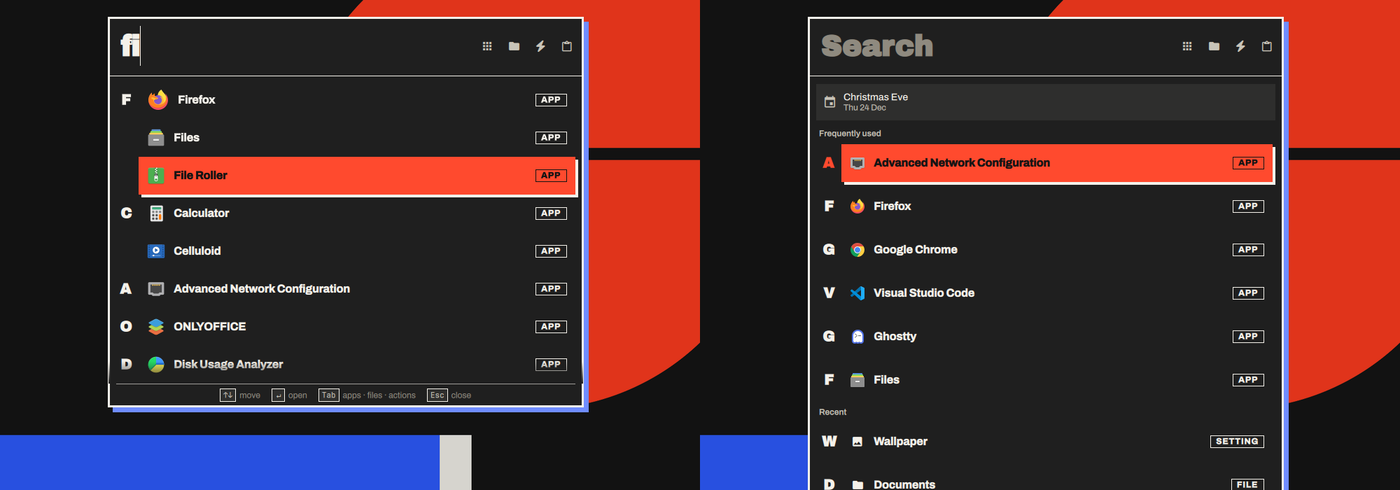
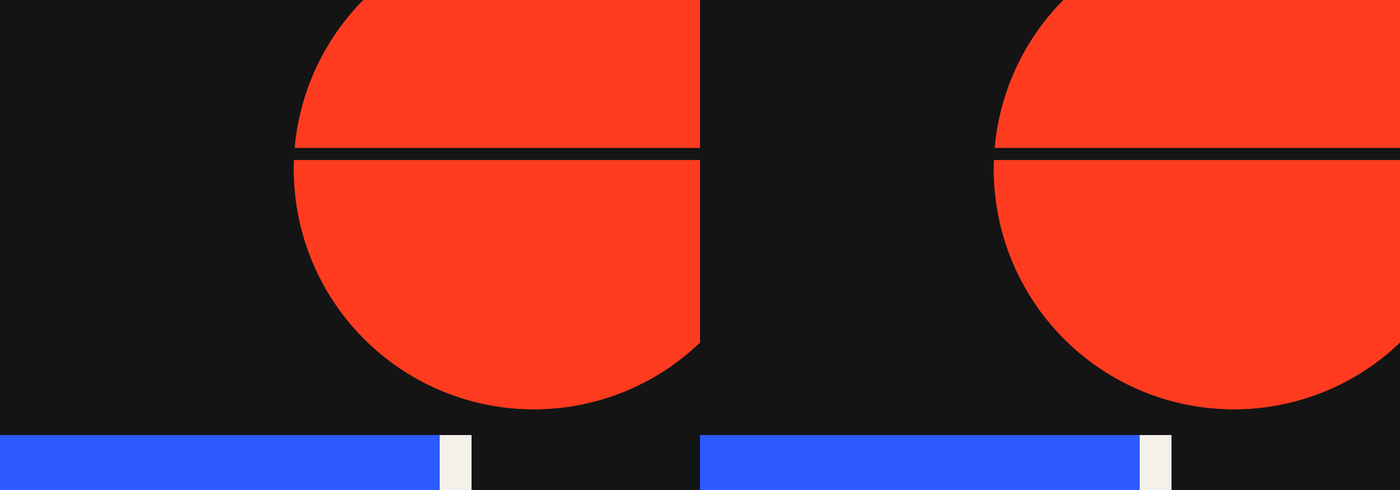
fix(launcher): sheet header at 48 px, layouts in the Settings preview
- Poster's sheet sets the query at ~48 px (fontHero x 1.15, scaled with
  the launcher size) in a taller header
- The theme's card in Settings > Search & Launcher draws its layout:
  plates and a split pill (grid), letter index, tags and a hard-shadow
  selection (sheet), > marker and index (prompt)
- Sheet quick-action tiles drop the tag, so their names fit
- After-shots refreshed, plus the Settings previews

diff --git a/config/quickshell/.config/quickshell/LauncherStylePreview.qml b/config/quickshell/.config/quickshell/LauncherStylePreview.qml
@@ -14,16 +14,18 @@ Item {
     readonly property real s: width / 200                  // drawing scale
     readonly property real barT: 7 * s
     readonly property bool sideBar: Theme.barEdge === "left" || Theme.barEdge === "right"
-    readonly property bool split: spec.split ?? (Theme.glassy && spec.placement === "center")
-    readonly property string corners: spec.corners && spec.corners !== "theme" ? spec.corners : Theme.radius === 0 ? "sharp" : "round"
+    // the theme's structure (launcher.layout, Launcher.qml): grid | sheet | prompt; a style has none
+    readonly property string layout: spec.layout ?? ""
+    readonly property bool split: spec.split ?? (layout === "grid" || Theme.glassy && spec.placement === "center")
+    readonly property string corners: spec.corners && spec.corners !== "theme" ? spec.corners : layout === "grid" ? "round" : Theme.radius === 0 ? "sharp" : "round"
     readonly property real r: corners === "sharp" ? 0 : 4 * s
-    readonly property bool grid: spec.view === "grid" || spec.view === "start"
-    readonly property bool inverse: (spec.select ?? "wash") === "inverse"
+    readonly property bool grid: spec.view === "grid" || spec.view === "start" || layout === "grid"
+    readonly property bool inverse: layout === "sheet" || layout !== "grid" && layout !== "prompt" && (spec.select ?? "wash") === "inverse"
     // what makes each style itself: Spotlight is the bar alone until you type, Launchpad has no sheet,
     // and the rows are drawn the style's way (compact lines, tall cards, text with a kind column)
     readonly property bool barOnly: spec.view === "inline" && split
     readonly property bool bare: (spec.bare ?? false) && !Theme.light
-    readonly property string rows: spec.rows ?? ((spec.prompt ?? "") !== "" ? "text" : "standard")
+    readonly property string rows: spec.rows ?? (layout === "sheet" ? "cards" : (spec.prompt ?? "") !== "" ? "text" : "standard")
     readonly property bool glance: spec.view === "home" && (spec.home ?? []).includes("glance")
 
     implicitHeight: shot.height + text.implicitHeight + Theme.spaceS
@@ -65,7 +67,7 @@ Item {
                 corner: [sw * 0.03, sh * 0.38, sw * 0.4, sh * 0.56],
             })[card.spec.placement] ?? [sw * 0.24, sh * 0.2, sw * 0.52, sh * 0.56]
             x: at[0]; y: at[1]; width: at[2]; height: card.barOnly ? fh : at[3]
-            readonly property real fh: Math.max(10 * card.s, at[3] * (card.spec.placement === "fullscreen" ? 0.17 : card.barOnly ? 0.26 : 0.2))
+            readonly property real fh: Math.max(10 * card.s, at[3] * (card.spec.placement === "fullscreen" ? 0.17 : card.barOnly ? 0.26 : card.layout === "sheet" ? 0.28 : 0.2))
             readonly property real gap: card.split ? 3 * card.s : 0
 
             Rectangle {   // one card behind everything (unified)
@@ -89,18 +91,19 @@ Item {
                     color: Theme.accent
                     font { family: Theme.monoFont; pixelSize: Math.max(8, box.fh * 0.5); weight: Font.Bold }
                 }
-                Rectangle {   // the lens
-                    visible: (card.spec.prompt ?? "") === ""
+                Rectangle {   // the lens (the sheet has none: the query is the header)
+                    visible: (card.spec.prompt ?? "") === "" && card.layout !== "sheet"
                     anchors { left: parent.left; leftMargin: 5 * card.s; verticalCenter: parent.verticalCenter }
                     width: box.fh * 0.36; height: width; radius: width / 2
                     color: "transparent"
                     border { width: Math.max(1, card.s); color: Theme.subtext }
                 }
                 Rectangle {   // typed text
-                    x: 5 * card.s + box.fh * 0.6
+                    readonly property bool big: card.spec.header === "query" || card.layout === "sheet"
+                    x: 5 * card.s + (card.layout === "sheet" ? 0 : box.fh * 0.6)
                     anchors.verticalCenter: parent.verticalCenter
-                    width: parent.width * (card.spec.header === "query" ? 0.3 : 0.22)
-                    height: Math.max(2, box.fh * (card.spec.header === "query" ? 0.3 : 0.18))
+                    width: parent.width * (big ? 0.3 : 0.22)
+                    height: Math.max(2, box.fh * (card.layout === "sheet" ? 0.4 : big ? 0.3 : 0.18))
                     radius: height / 2
                     color: Theme.muted
                 }
@@ -166,6 +169,14 @@ Item {
                                 radius: card.corners === "sharp" ? 0 : width * 0.3
                                 color: parent.index === 0 && card.inverse ? Theme.accentText : Theme.subtext
                                 opacity: 0.55
+                                Rectangle {   // grid: the squircle plate under the icon
+                                    visible: card.layout === "grid"
+                                    anchors.centerIn: parent
+                                    z: -1
+                                    width: parent.width * 1.4; height: width; radius: width * 0.32
+                                    color: Theme.fill
+                                    border { width: 1; color: Theme.stroke }
+                                }
                             }
                         }
                     }
@@ -182,11 +193,39 @@ Item {
                         model: Math.max(0, Math.min(card.rows === "compact" ? 10 : 6, Math.floor((body.height - body.listTop - body.pad) / (list.rowH + list.spacing))))
                         Rectangle {
                             required property int index
-                            width: parent.width; height: list.rowH
+                            // sheet: a letter column on the left; prompt: a > and an index
+                            readonly property real lead: card.layout === "sheet" || card.layout === "prompt" ? 6 * card.s : 0
+                            x: lead
+                            width: parent.width - lead - (card.layout === "sheet" ? card.s * 1.5 : 0); height: list.rowH
                             radius: card.r / 2
                             color: index === 0 ? (card.inverse ? Theme.accent : Theme.accentWash) : "transparent"
+                            Rectangle {   // sheet: the hard shadow under the selection
+                                visible: card.layout === "sheet" && parent.index === 0
+                                x: card.s * 1.5; y: card.s * 1.5; z: -1
+                                width: parent.width; height: parent.height
+                                color: Theme.text
+                            }
+                            Rectangle {   // sheet: the first letter; prompt: the > on the selection, then a dim index
+                                visible: parent.lead > 0 && (card.layout === "sheet" || parent.index === 0)
+                                x: -parent.lead + card.s; anchors.verticalCenter: parent.verticalCenter
+                                width: card.layout === "sheet" ? 3 * card.s : 1.5 * card.s; height: card.layout === "sheet" ? width : 2 * card.s
+                                color: card.layout === "sheet" ? Theme.text : Theme.accent
+                            }
+                            Rectangle {
+                                visible: card.layout === "prompt"
+                                x: -parent.lead + 3 * card.s; anchors.verticalCenter: parent.verticalCenter
+                                width: 2.5 * card.s; height: Math.max(2, 1.4 * card.s); radius: height / 2
+                                color: Theme.muted
+                            }
+                            Rectangle {   // sheet: the category tag at the row's end
+                                visible: card.layout === "sheet"
+                                anchors { right: parent.right; rightMargin: 2 * card.s; verticalCenter: parent.verticalCenter }
+                                width: 7 * card.s; height: 3.5 * card.s
+                                color: "transparent"
+                                border { width: 1; color: parent.index === 0 ? Theme.accentText : Theme.text }
+                            }
                             Rectangle {   // the accent tick of a soft selection
-                                visible: parent.index === 0 && !card.inverse
+                                visible: parent.index === 0 && !card.inverse && !card.layout
                                 x: 1; anchors.verticalCenter: parent.verticalCenter
                                 width: Math.max(1, card.s); height: parent.height * 0.5
                                 color: Theme.accent
@@ -200,14 +239,14 @@ Item {
                                 opacity: card.rows === "text" ? 0.8 : 0.6
                             }
                             Rectangle {   // the second line of a card
-                                visible: card.rows === "cards"
+                                visible: card.rows === "cards" && card.layout !== "sheet"
                                 x: 14 * card.s; y: parent.height * 0.6
                                 width: parent.width * 0.22; height: Math.max(2, 1.2 * card.s); radius: height / 2
                                 color: Theme.muted; opacity: 0.6
                             }
                             Rectangle {
                                 x: (card.rows === "cards" ? 14 : card.rows === "text" ? 12 : card.rows === "compact" ? 8 : 10) * card.s
-                                y: card.rows === "cards" ? parent.height * 0.3 : (parent.height - height) / 2
+                                y: card.rows === "cards" && card.layout !== "sheet" ? parent.height * 0.3 : (parent.height - height) / 2
                                 width: parent.width * [0.42, 0.3, 0.36, 0.26, 0.34, 0.28][parent.index]; height: Math.max(2, 1.6 * card.s)
                                 radius: height / 2
                                 color: parent.index === 0 && card.inverse ? Theme.accentText : Theme.muted

diff --git a/config/quickshell/.config/quickshell/LauncherHomeRow.qml b/config/quickshell/.config/quickshell/LauncherHomeRow.qml
@@ -33,6 +33,6 @@ Rectangle {
         Text { width: parent.width; text: hr.item.title; elide: Text.ElideRight; color: hr.current ? Launcher.selText : Theme.text; font { family: Launcher.rowFont; pixelSize: Launcher.layout === "sheet" ? Theme.fontTitle : Theme.fontSize; weight: Launcher.layout === "sheet" ? Font.Bold : Font.Medium } }
         Text { width: parent.width; visible: !!hr.item.subtitle && Config.launcher.subtitles && !hr.oneLine && Launcher.layout !== "sheet"; text: hr.item.subtitle ?? ""; elide: Text.ElideMiddle; color: hr.current ? Launcher.selSub : Theme.subtext; font { family: Launcher.rowFont; pixelSize: Theme.fontCaption } }
     }
-    LauncherTag { id: hrTag; anchors { right: parent.right; rightMargin: Theme.spaceM + Theme.shadowOffset; verticalCenter: parent.verticalCenter } item: hr.item; current: hr.current }
+    LauncherTag { id: hrTag; visible: hr.lead && Launcher.layout === "sheet" && kind !== ""; anchors { right: parent.right; rightMargin: Theme.spaceM + Theme.shadowOffset; verticalCenter: parent.verticalCenter } item: hr.item; current: hr.current }
     MouseArea { id: hrArea; Accessible.role: Accessible.ListItem; Accessible.name: hr.item.title; Accessible.onPressAction: Launcher.activate(hr.item); anchors.fill: parent; hoverEnabled: true; onEntered: Launcher.homeIndex = hr.at; acceptedButtons: Qt.LeftButton | Qt.RightButton; onClicked: mouse => mouse.button === Qt.RightButton ? Launcher.menuFor(hr.item, hrArea, mouse.x, mouse.y) : Launcher.activate(hr.item) }
 }

diff --git a/config/quickshell/.config/quickshell/Launcher.qml b/config/quickshell/.config/quickshell/Launcher.qml
@@ -120,7 +120,7 @@ Singleton {
              : rl.placement === "half" ? Math.round((screenW - Theme.reserveRight) / 2)
              : rl.placement === "fullscreen" ? Math.min(rl.width * size, screenW - 80)
              : Math.min(rl.width * size, screenW - Theme.spaceL * 2),
-        field: Math.round((preset?.field ?? (layout === "sheet" ? Theme.fontHero * 2 : layout === "grid" ? 64 : rl.header === "query" ? 64 : rl.placement === "strip" ? 40 : Math.round(Theme.body * 3.5))) * Math.sqrt(size)),
+        field: Math.round((preset?.field ?? (layout === "sheet" ? Theme.fontHero * 2.1 : layout === "grid" ? 64 : rl.header === "query" ? 64 : rl.placement === "strip" ? 40 : Math.round(Theme.body * 3.5))) * Math.sqrt(size)),
         corners: Config.launcher.corners !== "style" ? Config.launcher.corners
                : preset && preset.corners !== "theme" ? preset.corners : layout === "grid" ? "round" : Theme.radius === 0 ? "sharp" : Theme.radius >= 14 ? "round" : "soft",
         selection: "accent",

diff --git a/config/quickshell/.config/quickshell/LauncherHeader.qml b/config/quickshell/.config/quickshell/LauncherHeader.qml
@@ -62,7 +62,7 @@ Item {
             }
             font {
                 family: Launcher.preset?.mono ? Theme.monoFont : Launcher.bigQuery ? Theme.displayFont : Theme.font
-                pixelSize: Launcher.layout === "sheet" ? Theme.fontHero : Math.round(Launcher.look.field * (Launcher.bigQuery ? 0.5 : Launcher.rl.queryLight ? 0.42 : 0.38))
+                pixelSize: Launcher.layout === "sheet" ? Math.round(Theme.fontHero * 1.15 * Math.sqrt(Launcher.size)) : Math.round(Launcher.look.field * (Launcher.bigQuery ? 0.5 : Launcher.rl.queryLight ? 0.42 : 0.38))
                 weight: Launcher.bigQuery ? Theme.displayWeight : Launcher.rl.queryLight ? Font.Light : Font.Normal
             }
             onTextChanged: {

diff --git a/CHANGELOG.md b/CHANGELOG.md
@@ -9,7 +9,8 @@ All notable changes to Hyprism. The format follows [Keep a Changelog](https://ke
 - A launcher structure per theme (theme.json `launcher.layout`): Pebble's `grid` (a big search pill, a Recent row,
   icons on squircle plates, a selection that springs in), Poster's `sheet` (the query as a display header, big rows
   with a letter index and a category tag, an inverse selection on a hard shadow) and Monolith's `prompt` (numbered
-  text rows, a `>` marker, matches in accent, `[enter] open` hints).
+  text rows, a `>` marker, matches in accent, `[enter] open` hints). The theme's card in Settings > Search &
+  Launcher draws the same structure.
 - The Control Center takes its structure from the theme (theme.json `popup.layout`): Pebble's soft cards with fat
   pill sliders, round icon wells, toggles with their state and a media card tinted by the album art; Poster's bento
   grid (wide Wi-Fi and Bluetooth, a big first toggle, solid blocks when on, hard shadows that collapse on press,
